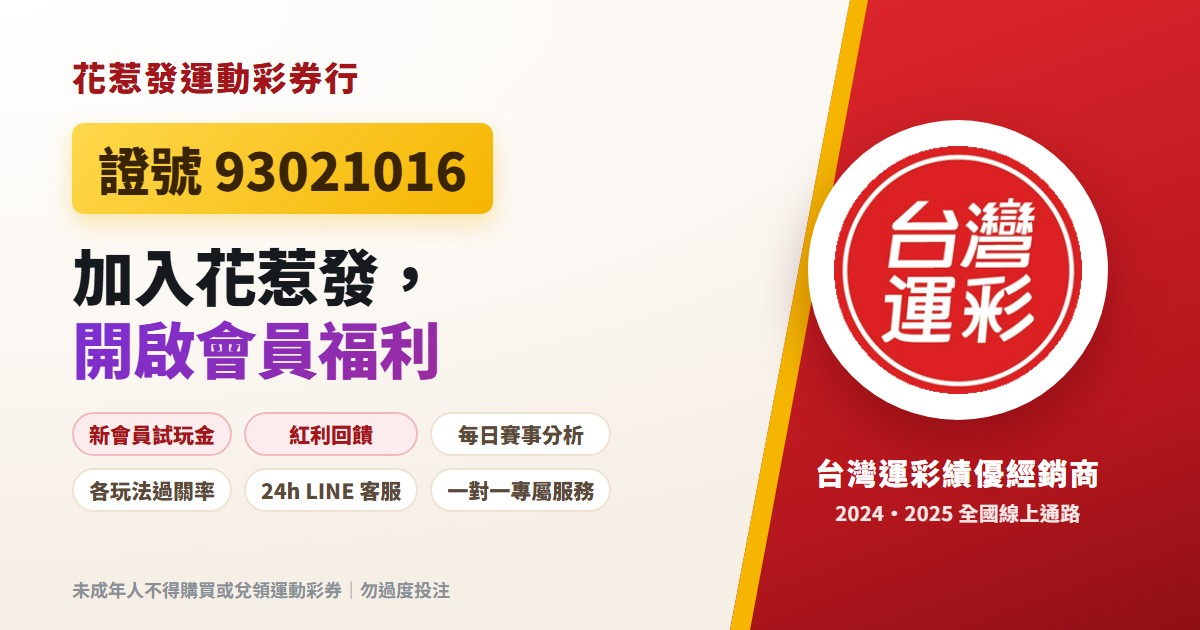
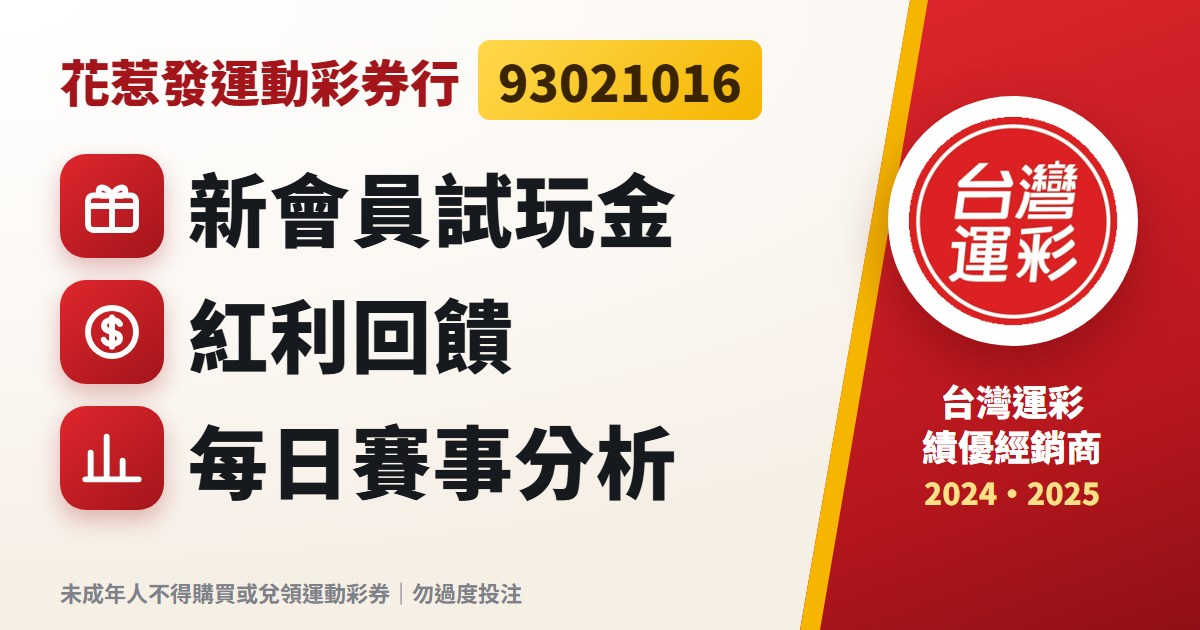
分享預覽圖改版：三個大字優勢，LINE 對話框裡也看得清楚

diff --git a/index.html b/index.html
@@ -15,7 +15,7 @@
 <meta property="og:url" content="https://agent93021016.com/">
 <meta property="og:locale" content="zh_TW">
 <meta property="og:site_name" content="花惹發運動彩券行">
-<meta property="og:image" content="https://agent93021016.com/img/og-image.jpg">
+<meta property="og:image" content="https://agent93021016.com/img/og-image.jpg?v=2">
 <meta property="og:image:width" content="1200">
 <meta property="og:image:height" content="630">
 <meta property="og:image:alt" content="花惹發運動彩券行，台灣運彩績優經銷商，證號 93021016，加入花惹發開啟會員福利">
